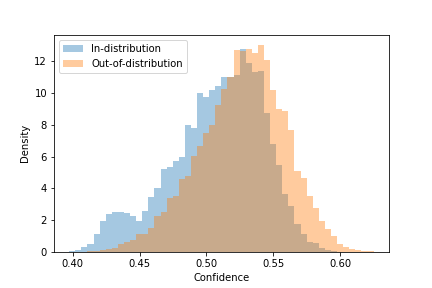
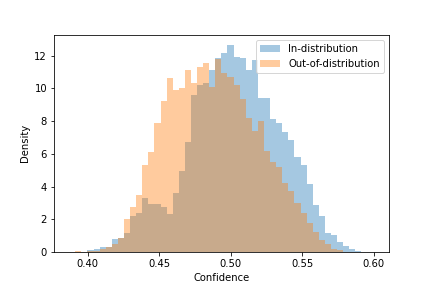
update plots, metrics, readme

diff --git a/README.md b/README.md
@@ -1,2 +1,7 @@
 # confidence_estimation_resnet
- resnet model with confidence branch
+ В работе представлена нейронная сеть ResNet18, обученная на датасете CIFAR-10. К архитектуре ResNet была добавлена дополнительная ветвь confidence branch, которая позволяет выявлять данные (out-of-distribution) не принадлежащие к датасету на которых обучалась сеть (in-distribution). Результатом работы данной ветви является число от 0 до 1, которое отображает уверенность сети в том, что данные принадлежат in-distribution. 
+ На графике можно увидеть, что без confidence branch уверенность сети для обоих датасетов находится в области от 0.4 до 0.6 с выборочным средним 0.5 и 0.48 и модой 0.44, 0.45, это говорит о том, что сеть не уверена к какому распределению отнести данные.
+ На графике с confidence branch видно, что сеть хорошо научилась определять данные из in-distribution и не плохо определяет данные из out-of-distribution, их выборочные средние равны 0.7 и 0.4, а моды 0.99 и 0.13, соответственно. 
+ Также, для сравнения, посмотрим на метрики. По всем метрикам сеть с confidence branch превосходит сеть без нее.
+ Тем не менее, такие показатели не являются высокими, мы все еще можем наблюдать неуверенность сети на некоторых данных из in-distribution и ошибочно высокие confidence для данных из out-of-distribution. 
+ Для лучших результатов при обучении сети следует добавить дополнительную аугментацию изображений и взять больше слоев в нейронной сети. 
